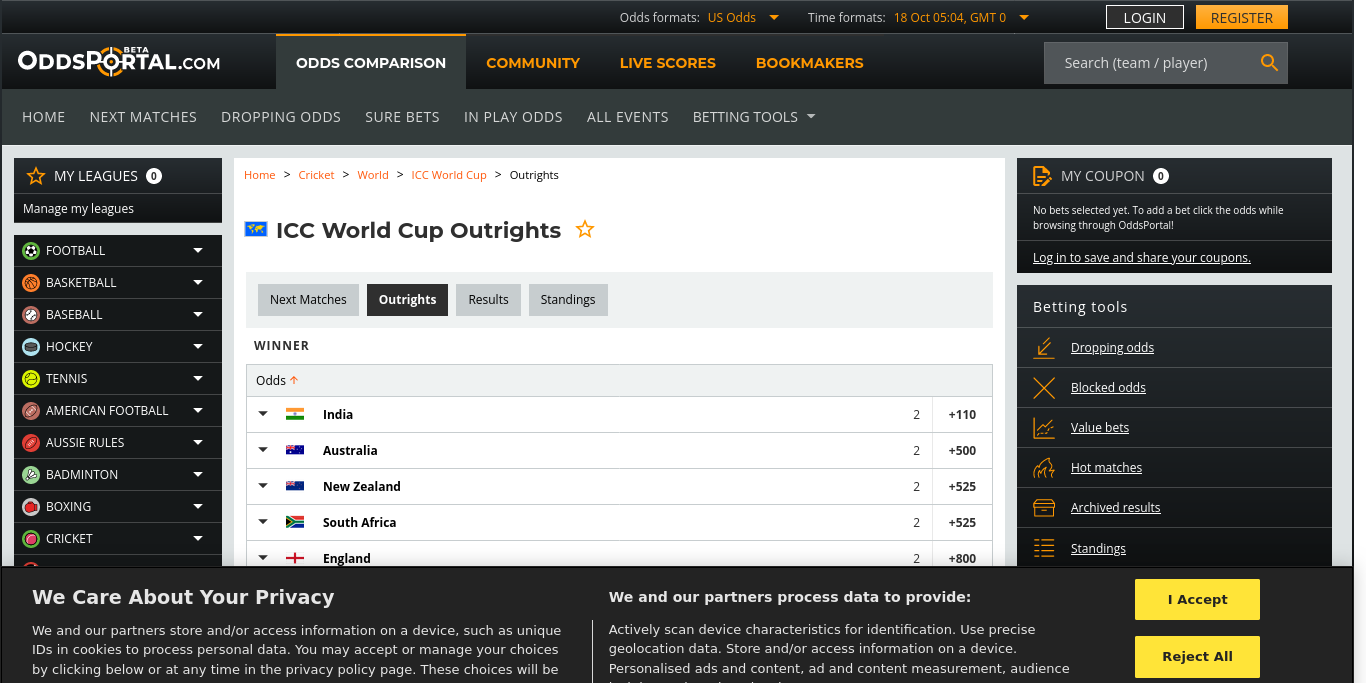
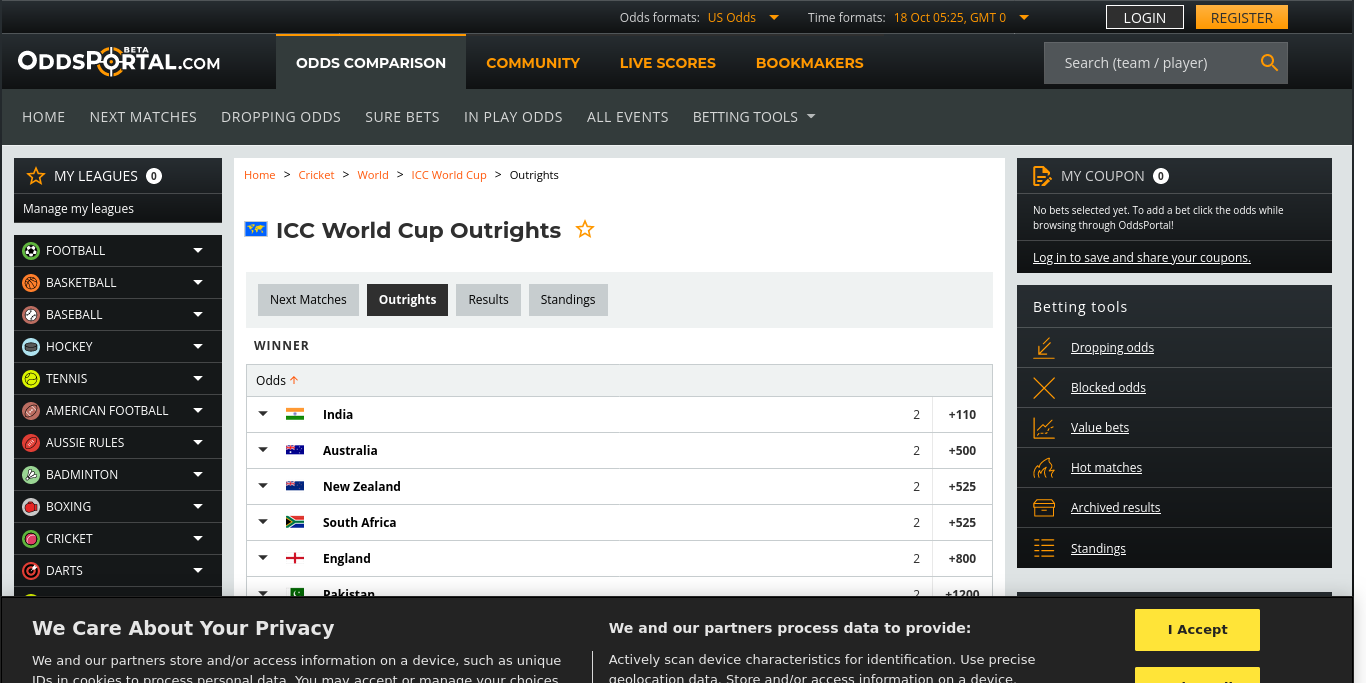
Update Data (Cron) Wed Oct 18 05:25:31 UTC 2023

Changed region(s): [[0.0, 0.8302, 1.0, 1.0]]

diff --git a/src/nonview/data/TEAM1_ID_TO_TEAM2_ID_TO_ODDS_PAIR.js b/src/nonview/data/TEAM1_ID_TO_TEAM2_ID_TO_ODDS_PAIR.js
@@ -1,19 +1,19 @@
 // Auto Generated by UpdateTeam1IDToTeam2IDToOddsPair
 // https://www.oddsportal.com/cricket/world/icc-world-cup/
-// 2023-10-18 10:34:35 +0000
+// 2023-10-18 10:55:24 +0000
 
 import { TEAM } from "../core/Team.js";
 
 export const TEAM1_ID_TO_TEAM2_ID_TO_ODDS_PAIR = {
   [TEAM.NZL.id]: {
-    [TEAM.AFG.id]: [1.29, 3.49],
+    [TEAM.AFG.id]: [1.29, 3.50],
   },
   [TEAM.IND.id]: {
-    [TEAM.BGD.id]: [1.09, 6.91],
-    [TEAM.NZL.id]: [1.40, 2.93],
+    [TEAM.BGD.id]: [1.09, 7.03],
+    [TEAM.NZL.id]: [1.40, 2.94],
   },
   [TEAM.AUS.id]: {
-    [TEAM.PAK.id]: [1.55, 2.45],
+    [TEAM.PAK.id]: [1.55, 2.46],
   },
   [TEAM.LKA.id]: {
     [TEAM.NLD.id]: [1.21, 4.26],

diff --git a/src/nonview/constants/VERSION.js b/src/nonview/constants/VERSION.js
@@ -1,4 +1,4 @@
 // Auto-generated by javascript_version.py
-export const VERSION_UT = 1697605482;
+export const VERSION_UT = 1697606731;
 export const VERSION_DATETIME = new Date(VERSION_UT * 1_000);
 export const LAST_COMMIT_MESSAGE = "Updated 📊Data";

diff --git a/src/nonview/data/TEAM_ID_TO_P_WINNER.js b/src/nonview/data/TEAM_ID_TO_P_WINNER.js
@@ -1,6 +1,6 @@
 // Auto Generated by UpdateTeamIDToPWinner
 // https://www.oddsportal.com/cricket/world/icc-world-cup/outrights/
-// 2023-10-18 10:34:42 +0000
+// 2023-10-18 10:55:31 +0000
 
 export const TEAM_ID_TO_P_WINNER = {
   IND: 0.408106, // 41%

diff --git a/src/nonview/data/ODI_ID_TO_WINNER.js b/src/nonview/data/ODI_ID_TO_WINNER.js
@@ -1,6 +1,6 @@
 // Auto Generated by UpdateODIIDToWinner
 // https://www.cricbuzz.com/cricket-series/6732/icc-cricket-world-cup-2023/matches
-// 2023-10-18 10:34:18 +0000
+// 2023-10-18 10:55:07 +0000
 
 import { TEAM } from "../core/Team.js";
 

diff --git a/src/nonview/data/POINTS_TABLE.js b/src/nonview/data/POINTS_TABLE.js
@@ -1,6 +1,6 @@
 // Auto Generated by UpdatePointsTable
 // https://www.cricketworldcup.com/standings
-// 2023-10-18 10:34:27 +0000
+// 2023-10-18 10:55:16 +0000
 
 import { TEAM } from "../core/Team.js";
 
